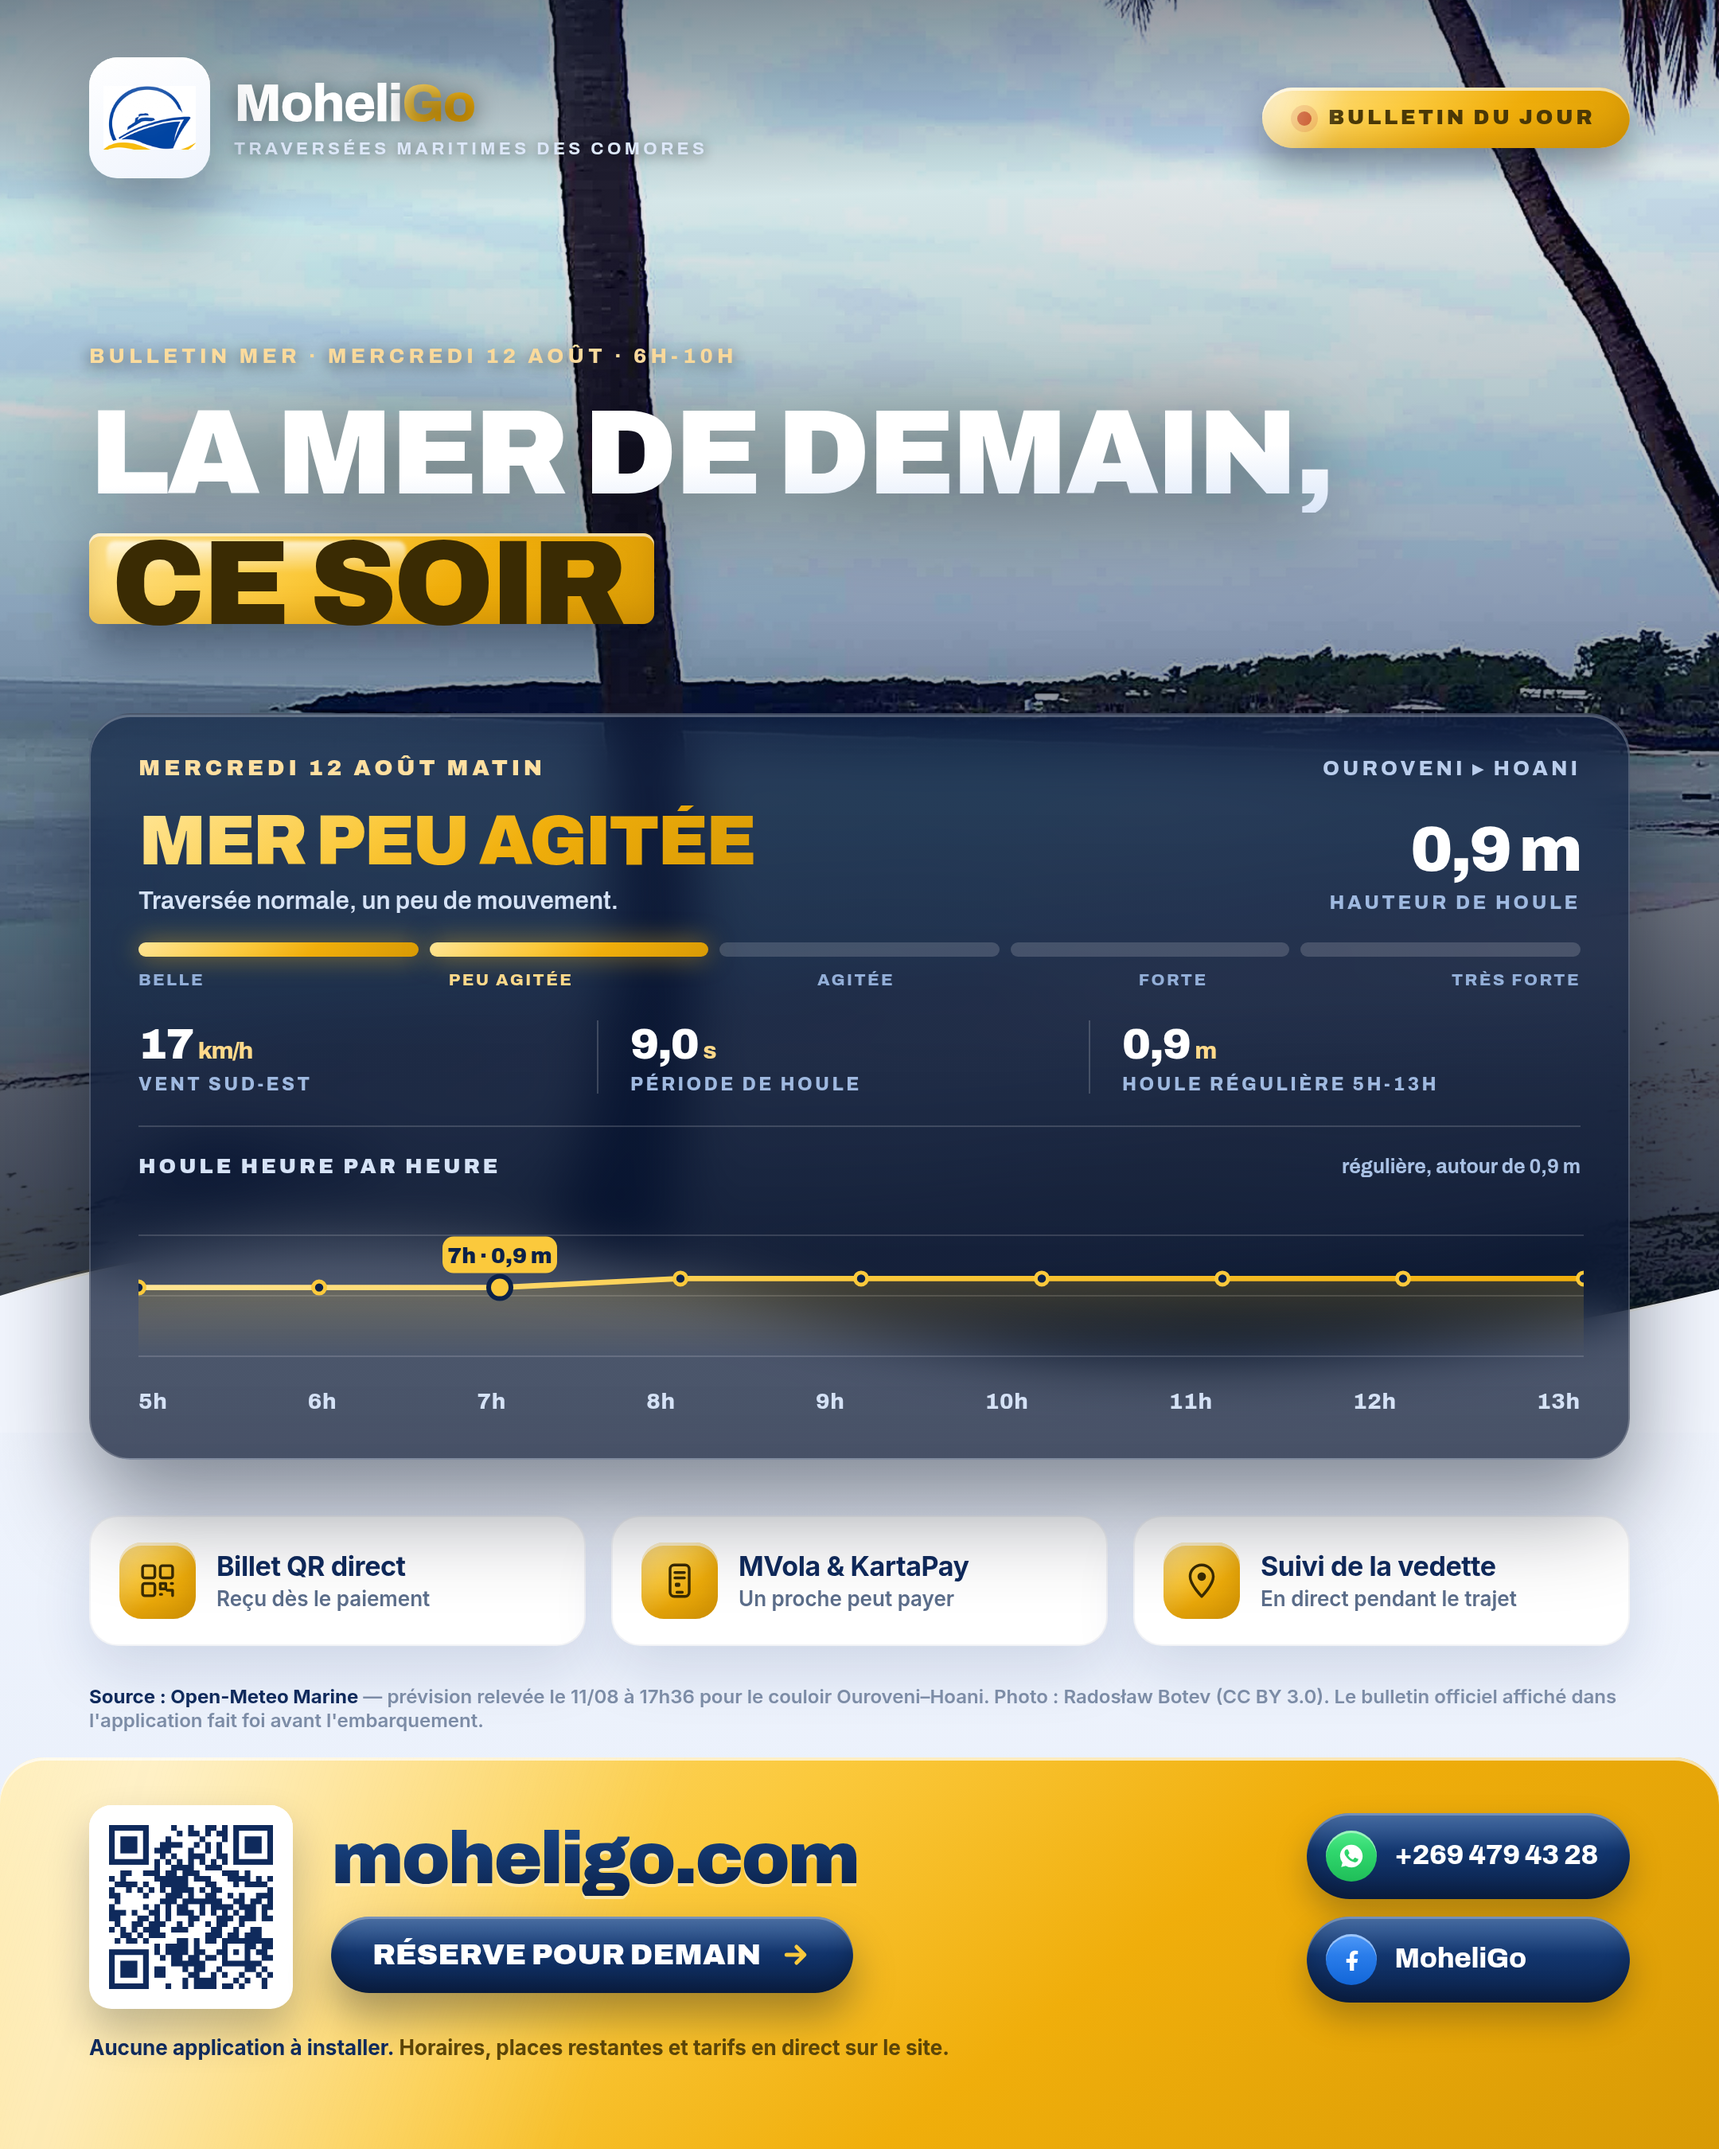
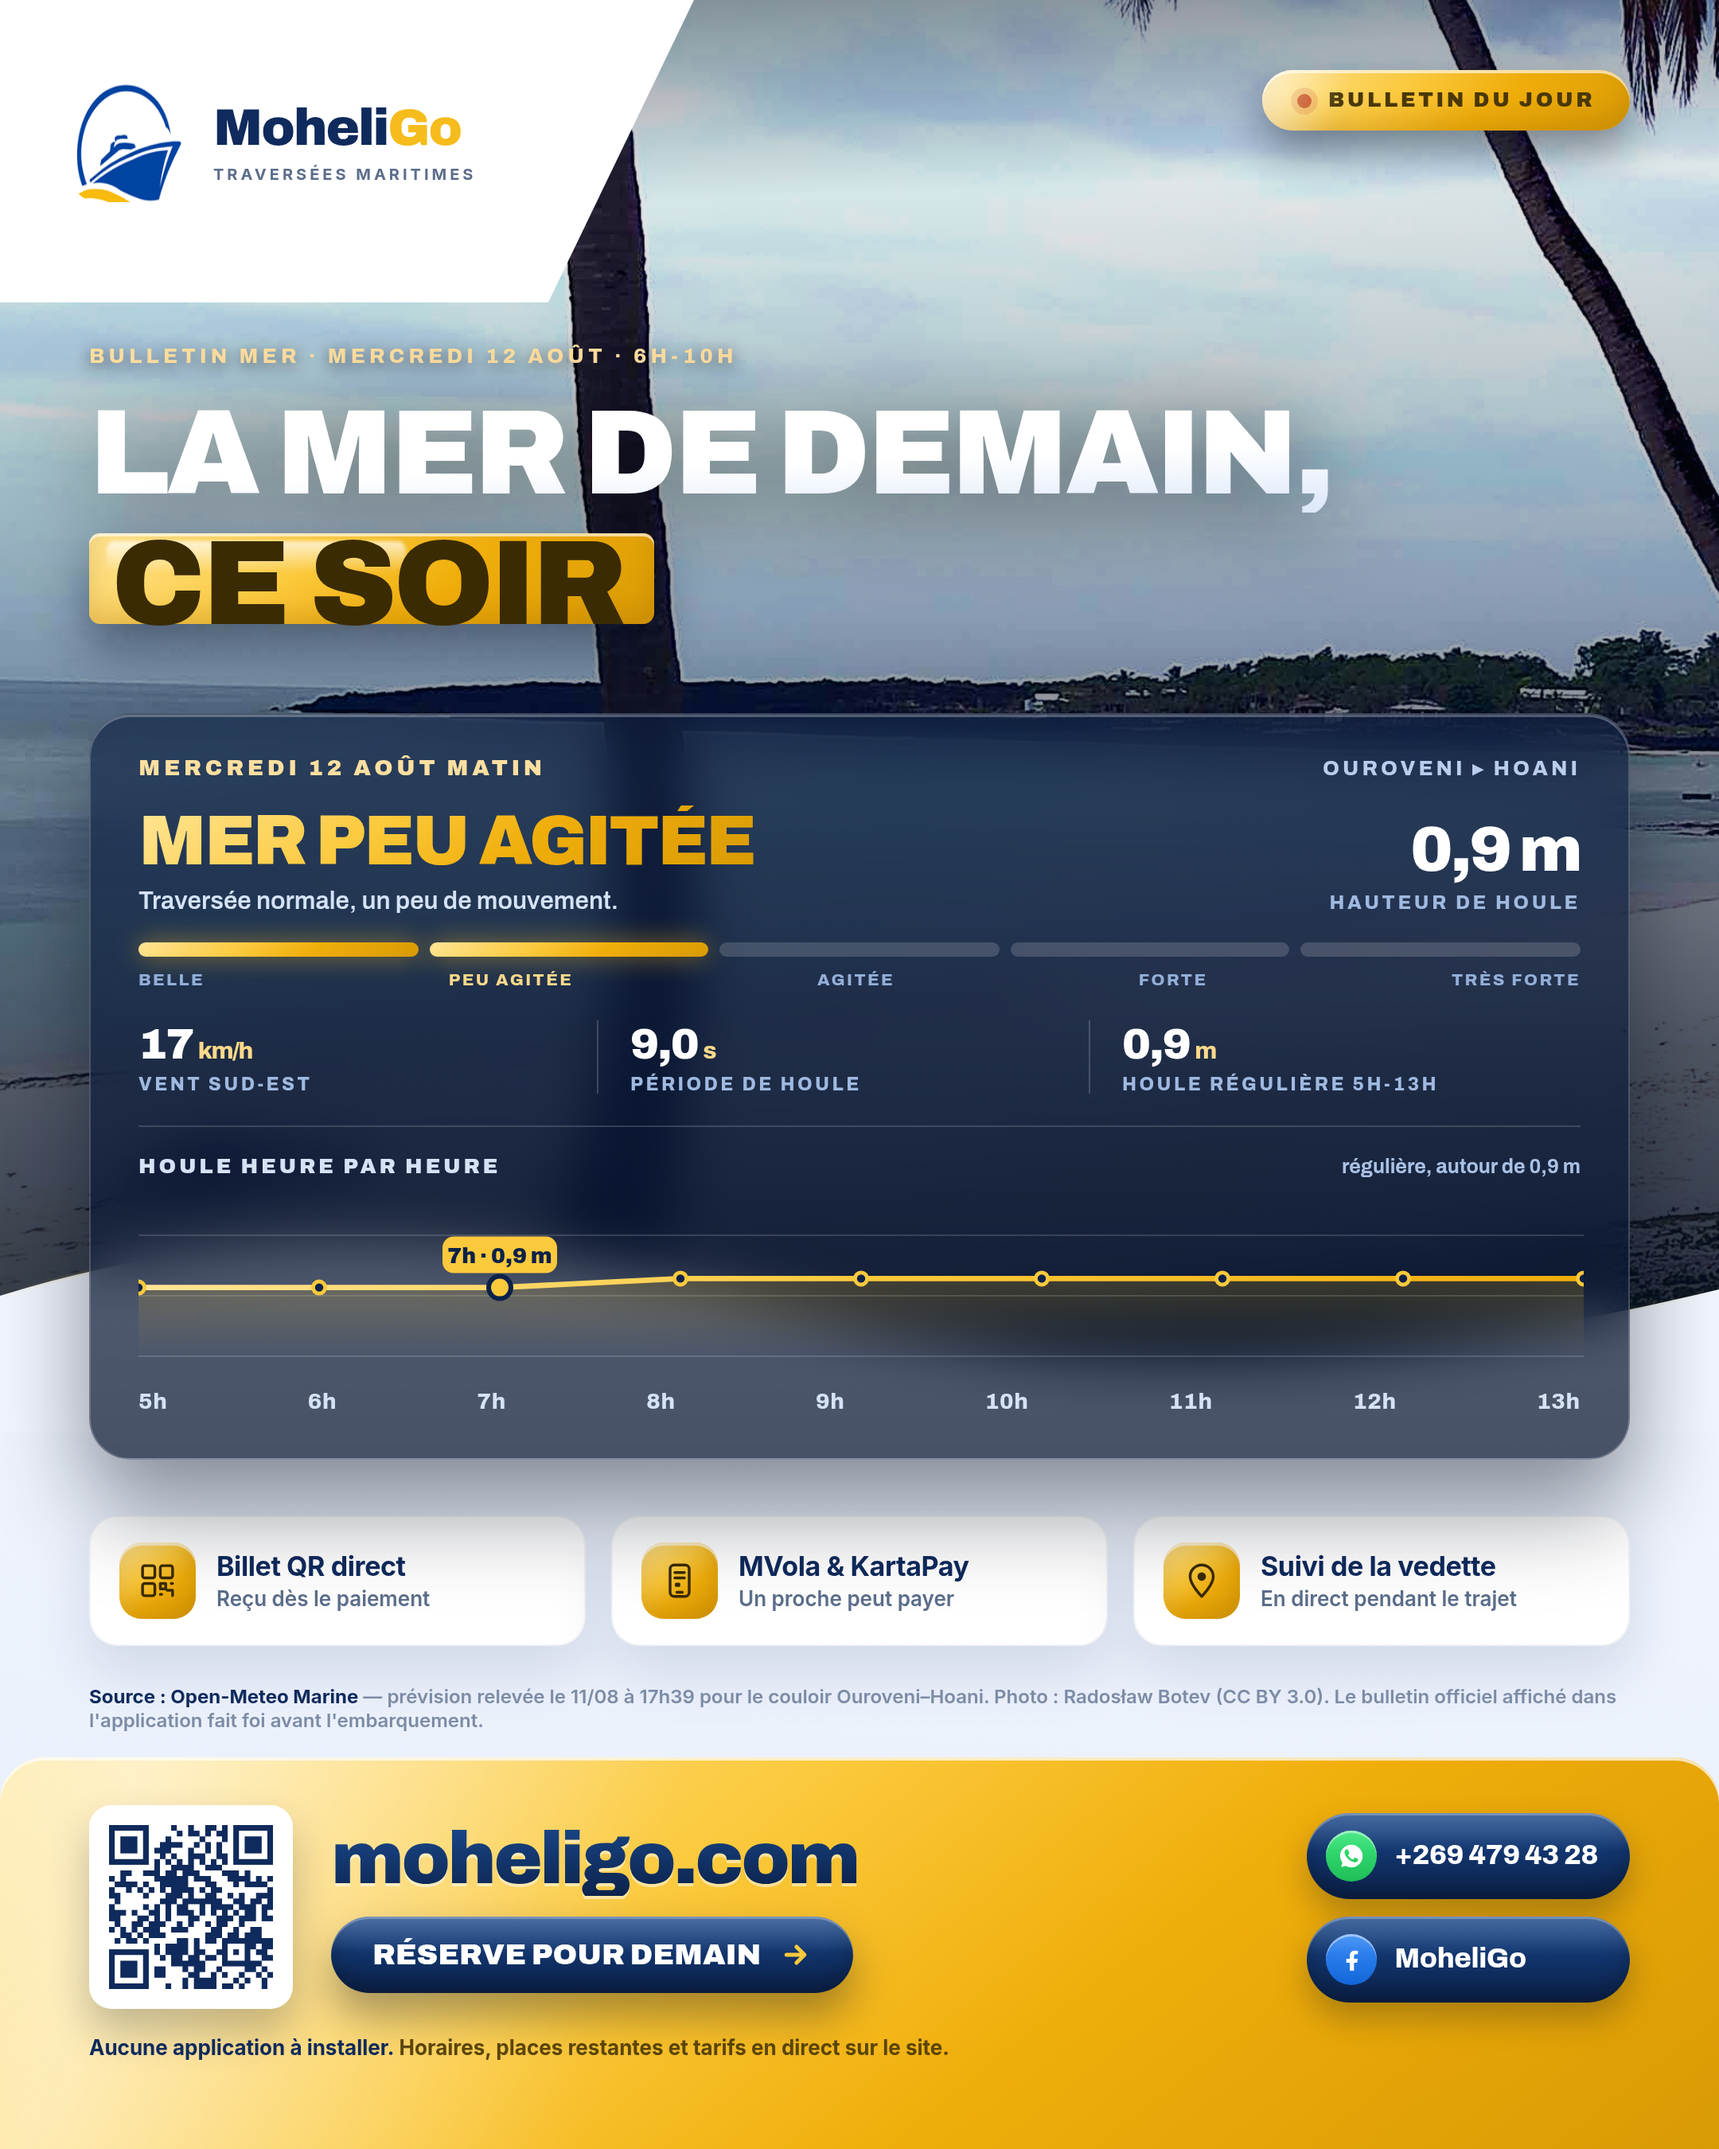
Le coin blanc en biais sur le bulletin
« Logo style Royal Air, n'oublie pas » : l'en-tete du bulletin utilisait
encore l'ancienne pastille. Il porte maintenant le coin blanc en biais,
comme les autres visuels de signature — un seul en-tete pour toute la
marque, c'est ce qui construit la reconnaissance (manuel, regle 1 :
actifs distinctifs).

Deux degats de l'edition, repares : le sous-titre etait coupe par la
diagonale (raccourci a « TRAVERSEES MARITIMES »), et mon expression
reguliere avait emporte la pastille « BULLETIN DU JOUR ».

Claude-Session: https://claude.ai/code/session_01BYJ87ihntXtVLQBUE1Jkoy

Changed region(s): [[0.0, 0.0, 0.4032, 0.1556], [0.7134, 0.0311, 0.9616, 0.0933]]

diff --git a/moheligo/pub/flyers/flyer8-soir-fb.html b/moheligo/pub/flyers/flyer8-soir-fb.html
@@ -35,8 +35,8 @@ body { width:1080px; height:1350px; font-family:'Inter',Arial,sans-serif; color:
                                      rgba(5,15,36,.34) 44%, rgba(5,15,36,.70) 74%, rgba(5,15,36,.90) 100%); }
 .top .wave { position:absolute; left:0; right:0; bottom:-2px; display:block; }
 
-.head { position:absolute; top:36px; left:var(--pad); right:var(--pad); display:flex;
-  align-items:center; justify-content:space-between; z-index:6; }
+.head { position:absolute; top:44px; left:var(--pad); right:var(--pad); display:flex;
+  align-items:center; justify-content:flex-end; z-index:6; }
 .ident { display:flex; align-items:center; gap:15px; }
 .badge-app { position:relative; width:76px; height:76px; border-radius:18px;
   background:linear-gradient(160deg,#fff 0%,#EFF4FD 100%); display:flex; align-items:center;
@@ -58,6 +58,19 @@ body { width:1080px; height:1350px; font-family:'Inter',Arial,sans-serif; color:
 .live::after { content:''; position:absolute; left:-40%; top:-120%; width:60%; height:340%;
   background:linear-gradient(90deg, rgba(255,255,255,0), rgba(255,255,255,.75), rgba(255,255,255,0));
   transform:rotate(18deg); filter:blur(4px); }
+
+
+/* ---------- coin blanc en biais : notre en-tête de signature ---------- */
+.coin { position:absolute; top:0; left:0; width:436px; height:190px; background:#fff;
+  clip-path:polygon(0 0, 100% 0, 79% 100%, 0 100%); z-index:9;
+  display:flex; align-items:center; gap:16px; padding:24px 0 34px 44px;
+  box-shadow:0 20px 48px rgba(4,12,40,.42); }
+.coin img { width:74px; height:74px; border-radius:18px; display:block; }
+.coin b { font-family:'Archivo','Inter',sans-serif; font-weight:900; font-size:32px;
+  color:var(--navy); letter-spacing:-1px; line-height:1; display:block; }
+.coin b em { font-style:normal; color:var(--gold); }
+.coin small { display:block; font-size:10px; font-weight:700; letter-spacing:2px;
+  color:var(--grey); margin-top:6px; }
 
 /* ---------- accroche ---------- */
 .claim { position:absolute; left:var(--pad); right:var(--pad); top:212px; color:#fff; z-index:6; }
@@ -188,11 +201,12 @@ body { width:1080px; height:1350px; font-family:'Inter',Arial,sans-serif; color:
     </svg>
   </div>
 
+    <div class="coin">
+    <img src="logo-emblem.png" alt="">
+    <div><b>Moheli<em>Go</em></b><small>TRAVERSÉES MARITIMES</small></div>
+  </div>
+
   <div class="head">
-    <div class="ident">
-      <div class="badge-app"><img src="logo-emblem.png" alt=""></div>
-      <div class="word arch"><b>Moheli<em>Go</em></b><small>TRAVERSÉES MARITIMES DES COMORES</small></div>
-    </div>
     <span class="live arch"><i></i>BULLETIN DU JOUR</span>
   </div>
 
@@ -262,7 +276,7 @@ body { width:1080px; height:1350px; font-family:'Inter',Arial,sans-serif; color:
     </div>
   </div>
 
-  <div class="source"><b>Source : Open-Meteo Marine</b> — prévision relevée le 11/08 à 17h36 pour le couloir Ouroveni–Hoani. Photo : Radosław Botev (CC BY 3.0).
+  <div class="source"><b>Source : Open-Meteo Marine</b> — prévision relevée le 11/08 à 17h39 pour le couloir Ouroveni–Hoani. Photo : Radosław Botev (CC BY 3.0).
     Le bulletin officiel affiché dans l'application fait foi avant l'embarquement.</div>
 
   <div class="cta">

diff --git a/moheligo/pub/flyers/flyer8-soir-fb.template.html b/moheligo/pub/flyers/flyer8-soir-fb.template.html
@@ -35,8 +35,8 @@ body { width:1080px; height:1350px; font-family:'Inter',Arial,sans-serif; color:
                                      rgba(5,15,36,.34) 44%, rgba(5,15,36,.70) 74%, rgba(5,15,36,.90) 100%); }
 .top .wave { position:absolute; left:0; right:0; bottom:-2px; display:block; }
 
-.head { position:absolute; top:36px; left:var(--pad); right:var(--pad); display:flex;
-  align-items:center; justify-content:space-between; z-index:6; }
+.head { position:absolute; top:44px; left:var(--pad); right:var(--pad); display:flex;
+  align-items:center; justify-content:flex-end; z-index:6; }
 .ident { display:flex; align-items:center; gap:15px; }
 .badge-app { position:relative; width:76px; height:76px; border-radius:18px;
   background:linear-gradient(160deg,#fff 0%,#EFF4FD 100%); display:flex; align-items:center;
@@ -58,6 +58,19 @@ body { width:1080px; height:1350px; font-family:'Inter',Arial,sans-serif; color:
 .live::after { content:''; position:absolute; left:-40%; top:-120%; width:60%; height:340%;
   background:linear-gradient(90deg, rgba(255,255,255,0), rgba(255,255,255,.75), rgba(255,255,255,0));
   transform:rotate(18deg); filter:blur(4px); }
+
+
+/* ---------- coin blanc en biais : notre en-tête de signature ---------- */
+.coin { position:absolute; top:0; left:0; width:436px; height:190px; background:#fff;
+  clip-path:polygon(0 0, 100% 0, 79% 100%, 0 100%); z-index:9;
+  display:flex; align-items:center; gap:16px; padding:24px 0 34px 44px;
+  box-shadow:0 20px 48px rgba(4,12,40,.42); }
+.coin img { width:74px; height:74px; border-radius:18px; display:block; }
+.coin b { font-family:'Archivo','Inter',sans-serif; font-weight:900; font-size:32px;
+  color:var(--navy); letter-spacing:-1px; line-height:1; display:block; }
+.coin b em { font-style:normal; color:var(--gold); }
+.coin small { display:block; font-size:10px; font-weight:700; letter-spacing:2px;
+  color:var(--grey); margin-top:6px; }
 
 /* ---------- accroche ---------- */
 .claim { position:absolute; left:var(--pad); right:var(--pad); top:212px; color:#fff; z-index:6; }
@@ -188,11 +201,12 @@ body { width:1080px; height:1350px; font-family:'Inter',Arial,sans-serif; color:
     </svg>
   </div>
 
+    <div class="coin">
+    <img src="logo-emblem.png" alt="">
+    <div><b>Moheli<em>Go</em></b><small>TRAVERSÉES MARITIMES</small></div>
+  </div>
+
   <div class="head">
-    <div class="ident">
-      <div class="badge-app"><img src="logo-emblem.png" alt=""></div>
-      <div class="word arch"><b>Moheli<em>Go</em></b><small>TRAVERSÉES MARITIMES DES COMORES</small></div>
-    </div>
     <span class="live arch"><i></i>BULLETIN DU JOUR</span>
   </div>
 
